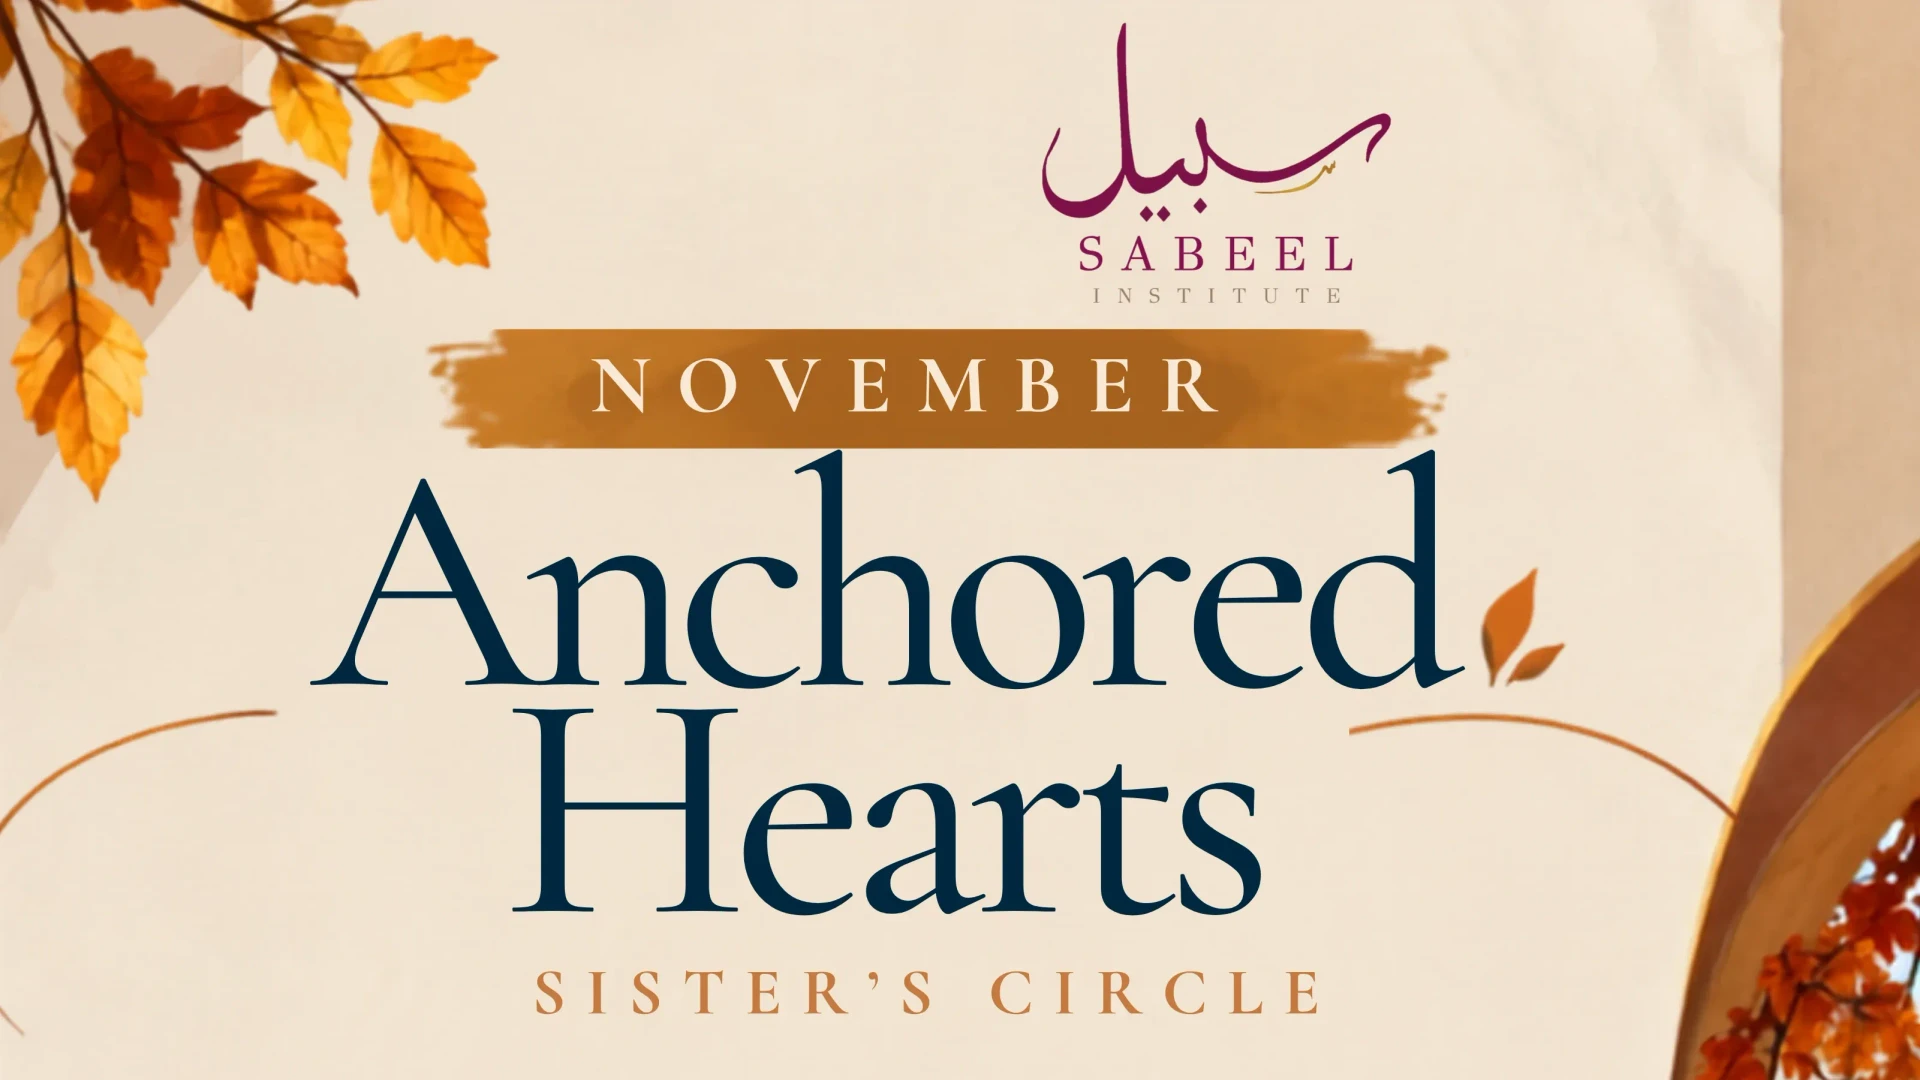
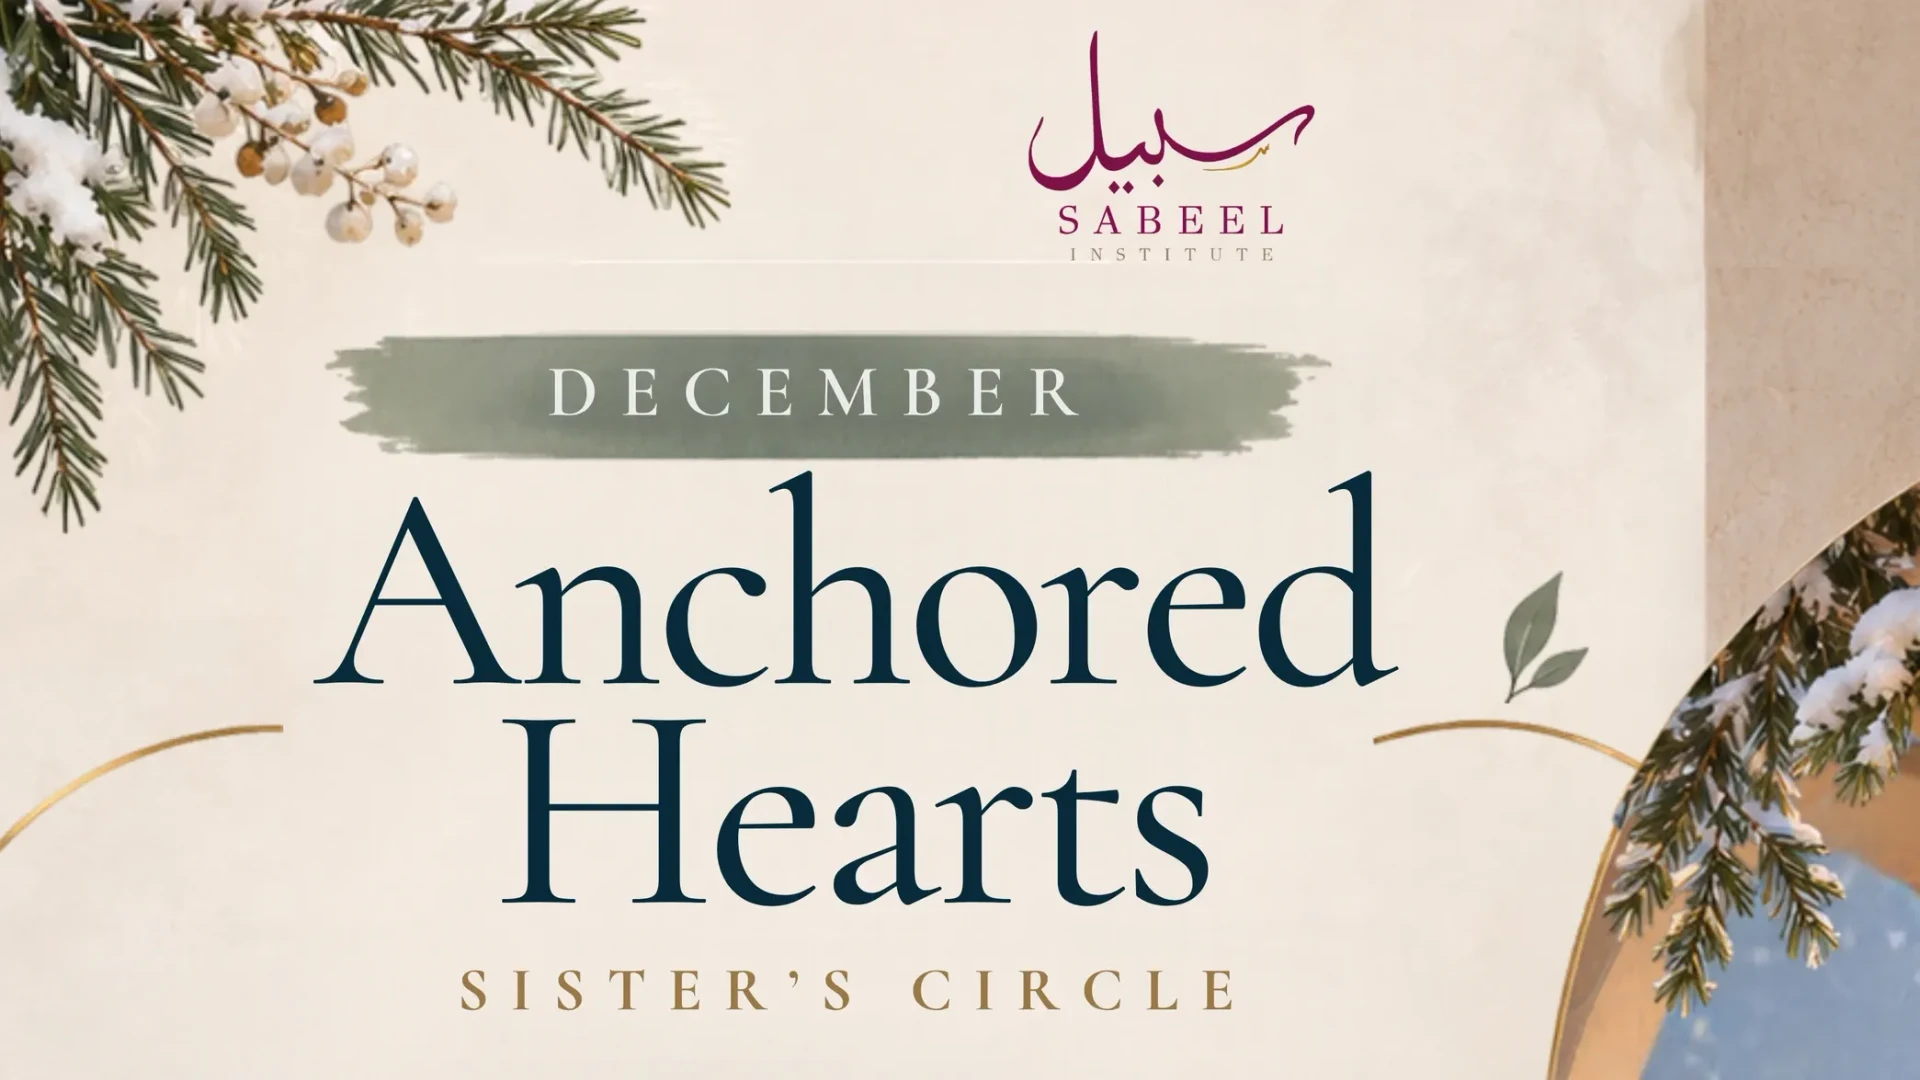
Update Anchored Hearts for December 2026 (#131)

diff --git a/src/content/programs/anchored-hearts/index.md b/src/content/programs/anchored-hearts/index.md
@@ -1,37 +1,40 @@
 ---
 status: open
-title: Anchored Hearts Sister’s Circle
-subtitle: Come as you are, leave with a heart a little more anchored.
-summary: A monthly gathering where sisters learn, reflect, and connect through beneficial Islamic talks, meaningful conversation, and occasional social activities.
+title: Anchored Hearts December
+subtitle: "The Distracted Heart: Reconnecting with Allah in a Digital World"
+summary: A monthly gathering to nurture faith, share meaningful conversations, and strengthen bonds of sisterhood.
 area: womens-learning
 schedule:
-  - start: 2026-11-14
-    time: 12:30–2:00 PM
+  - start: 2026-12-13
+    time: 2:15–3:30 PM
     label: Monthly
-audience: Women and youth girls
+audience: Women and girls
 format: On-site
 venue: masjid-istiqlal
 location: Sabeel Classroom at Masjid Istiqlal
-fee: Free
+fee:
+  - Free
+  - $5 suggested donation for the DIY drink
 financialAid: false
 registration:
-  zeffy: anchored-hearts-sisters-circle-november
+  zeffy: anchored-hearts-sisters-circle-december
 instructors:
-  - zona-bokhari
+  - sana-sattar
 image: ./image.webp
-imageAlt: "Title artwork: Anchored Hearts, Sister’s Circle"
+imageAlt: "Title artwork: December Anchored Hearts Sister’s Circle"
 flyer: ./flyer.webp
 ---
 
-Anchored Hearts is a monthly gathering for sisters to learn, reflect, and connect. Each gathering offers a welcoming space to nurture faith and build sisterhood.
+A conversation for women and teen girls alike!
 
-## This month: Seek ‘Ilm. Seek Jannah.
+We live in a world of endless scrolling, constant notifications, and digital distractions. But have we stopped to consider what all of this is doing to our minds, our hearts, and our connection with Allah?
 
-**A Path to Jannah in Every Season of Life, with Ust. Zona Bokhari, on Saturday, November 14.** Join us for an uplifting halaqa on how seeking knowledge keeps us grounded in faith, strengthens our connection with Allah, and guides us toward Jannah. Halaqa will be followed by fun games and sisterhood.
+Join us for a thought-provoking discussion on how smartphones and social media shape our attention, habits, and spiritual well-being.
 
-### Schedule
+Drawing on modern research and Islamic teachings, we’ll explore practical ways to reclaim our time and strengthen our connection with Allah.
 
-- **12:30–1:30 PM** – Beneficial Talk
-- **1:30–2:00 PM** – Games & Sisterhood
+## Sip & learn
 
-Whether you’re a student, a busy mom, a working professional, or in a season all your own, this space is for you!
+Complimentary chai for ladies and a fun DIY drink station for teens!
+
+Please register to help us plan and reserve your DIY drink in advance!
